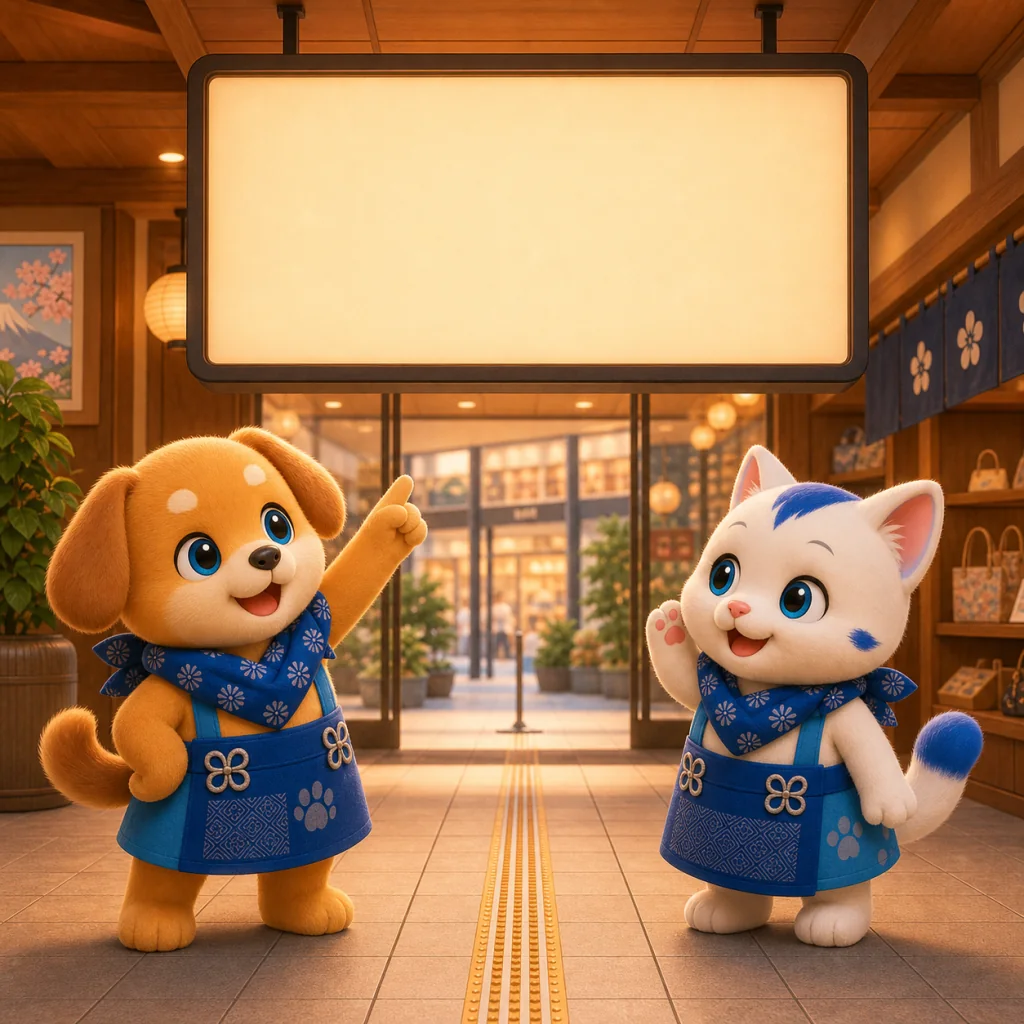
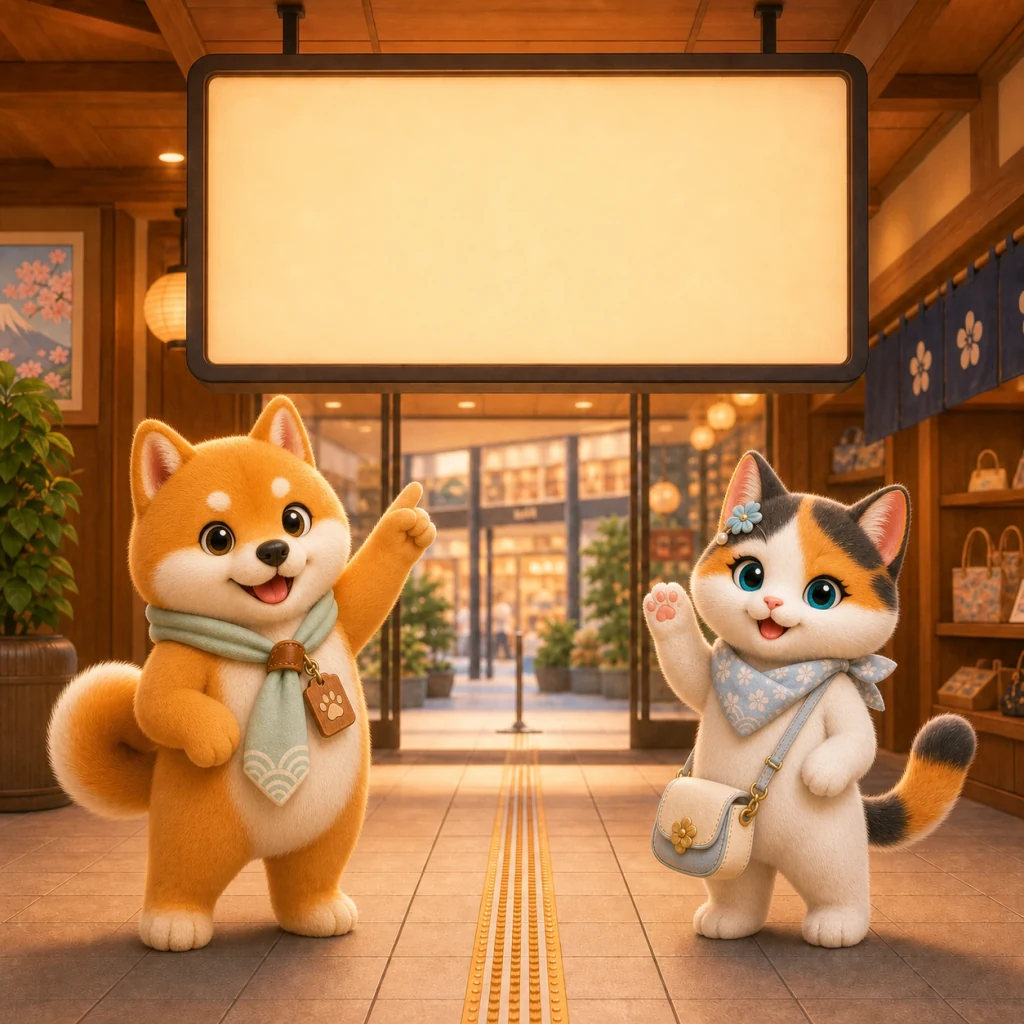
표지판 카드 마스코트 의상과 자산 일괄 개선

Changed region(s): [[0.0312, 0.375, 0.4375, 0.9375], [0.625, 0.4375, 0.9688, 0.9375], [0.5, 0.9062, 0.5312, 0.9375]]

diff --git a/src/content/signAssets.test.ts b/src/content/signAssets.test.ts
@@ -1,0 +1,44 @@
+import fs from 'node:fs';
+import path from 'node:path';
+import { describe, expect, it } from 'vitest';
+
+interface SignAsset {
+  id: string;
+  scene: string;
+  path: string;
+}
+
+interface SignAssetManifest {
+  sign: SignAsset[];
+}
+
+const root = process.cwd();
+const manifest = JSON.parse(
+  fs.readFileSync(path.join(root, 'docs/generated-image-manifests/vocab-body-and-sign-art.json'), 'utf8'),
+) as SignAssetManifest;
+
+describe('generated sign artwork', () => {
+  it('contains a unique, non-empty WebP asset for every manifest entry', () => {
+    expect(manifest.sign).toHaveLength(114);
+    expect(new Set(manifest.sign.map(({ id }) => id)).size).toBe(manifest.sign.length);
+    expect(new Set(manifest.sign.map(({ path: assetPath }) => assetPath)).size).toBe(manifest.sign.length);
+
+    for (const sign of manifest.sign) {
+      const assetPath = path.join(root, sign.path);
+      expect(assetPath.endsWith('.webp')).toBe(true);
+      expect(fs.existsSync(assetPath), `missing sign asset: ${sign.id}`).toBe(true);
+      expect(fs.statSync(assetPath).size, `empty sign asset: ${sign.id}`).toBeGreaterThan(0);
+    }
+  });
+
+  it('keeps one reusable source template for every scene type', () => {
+    const scenes = new Set(manifest.sign.map(({ scene }) => scene));
+    expect(scenes.size).toBe(10);
+
+    for (const scene of scenes) {
+      const templatePath = path.join(root, `scripts/assets/sign-art-templates/${scene}.webp`);
+      expect(fs.existsSync(templatePath), `missing sign template: ${scene}`).toBe(true);
+      expect(fs.statSync(templatePath).size, `empty sign template: ${scene}`).toBeGreaterThan(0);
+    }
+  });
+});

diff --git a/docs/asset-gaps/README.md b/docs/asset-gaps/README.md
@@ -10,10 +10,13 @@
 - `src/views/scene.ts`의 전용 삽화 범위를 C1~C54로 확장해 새 이미지가 실제 세션에서 선택되도록 연결
 - 공식 양·뭉 의상 가이드 생성: [`yangmung-character-outfit-guide.webp`](./yangmung-character-outfit-guide.webp)
 - 대표 오류 카드 `danshi.webp`, `kiken.webp`를 공식 삼색 고양이 양·시바견 뭉과 서로 다른 의상으로 교체
+- 공용 원본 템플릿 10장을 공식 의상 기준으로 교체하고 일본어 문자 좌표를 재조정
+- `sign-art/generated` 전체 114장을 다시 렌더링하고 누락됐던 `exit_floor.webp`까지 추가
+- 대표 오류 카드 `danshi.webp`, `kiken.webp`는 개별 제작본을 유지
 - 현재 콘텐츠 기준 미생성 프리미엄 표현 음성 67개 생성 완료(조사 당시 66개에서 표현 1개가 추가됨)
 - Azure Nanami 음성과 `public/audio/manifest.json` 갱신 완료
 
-`sign-art/generated`의 나머지 카드는 한 번에 교체하지 않았다. 새 공식 의상 가이드를 기준으로 노출 우선순위에 따라 순차 교체한다.
+`sign-art/generated`의 마스코트 의상 교체와 문자 재렌더링은 전체 완료했다. 이후 개별 카드의 장면 특화 품질이 필요한 경우 공식 의상 가이드를 기준으로 해당 카드만 우선 제작본으로 교체한다.
 
 ## 이 앱의 그림 스타일 두 가지 (혼동 주의)
 
